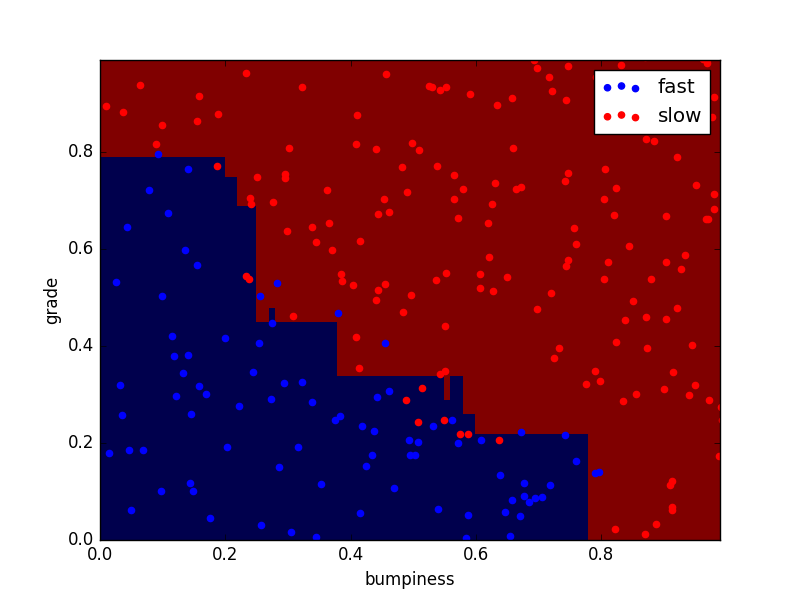
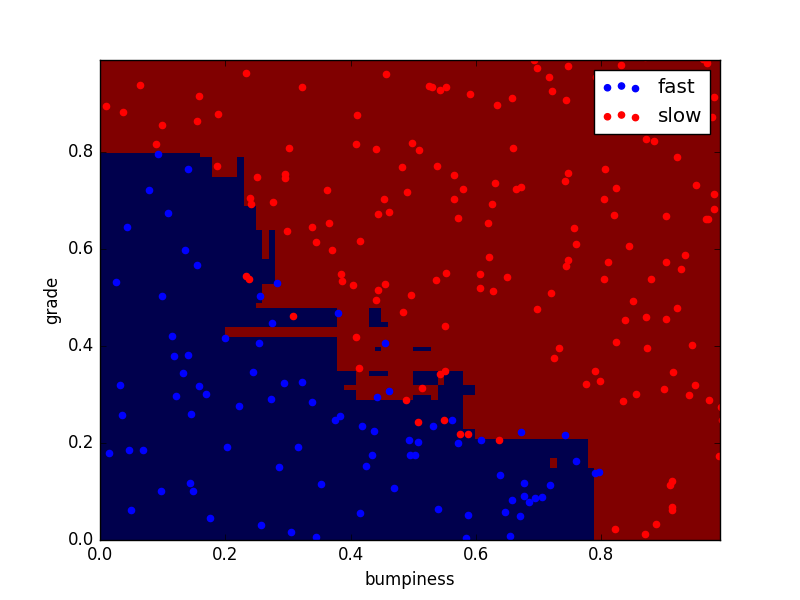
Mini-project lecture 5 (AdaBoost refining)

diff --git a/choose_your_own/your_algorithm.py b/choose_your_own/your_algorithm.py
@@ -35,9 +35,8 @@ from sklearn.ensemble import AdaBoostClassifier
 from sklearn.tree import DecisionTreeClassifier
 from sklearn.metrics import accuracy_score
 
-# Initialize the DT classifier and train it
-dt_clf = DecisionTreeClassifier(min_samples_split=40)
-dt_clf.fit(features_train, labels_train)
+# Initialize the DT classifier with custom parameters
+dt_clf = DecisionTreeClassifier(max_depth=3, min_samples_split=40)
 
 # Initialize the AB classifier and train it
 clf = AdaBoostClassifier(base_estimator=dt_clf)
